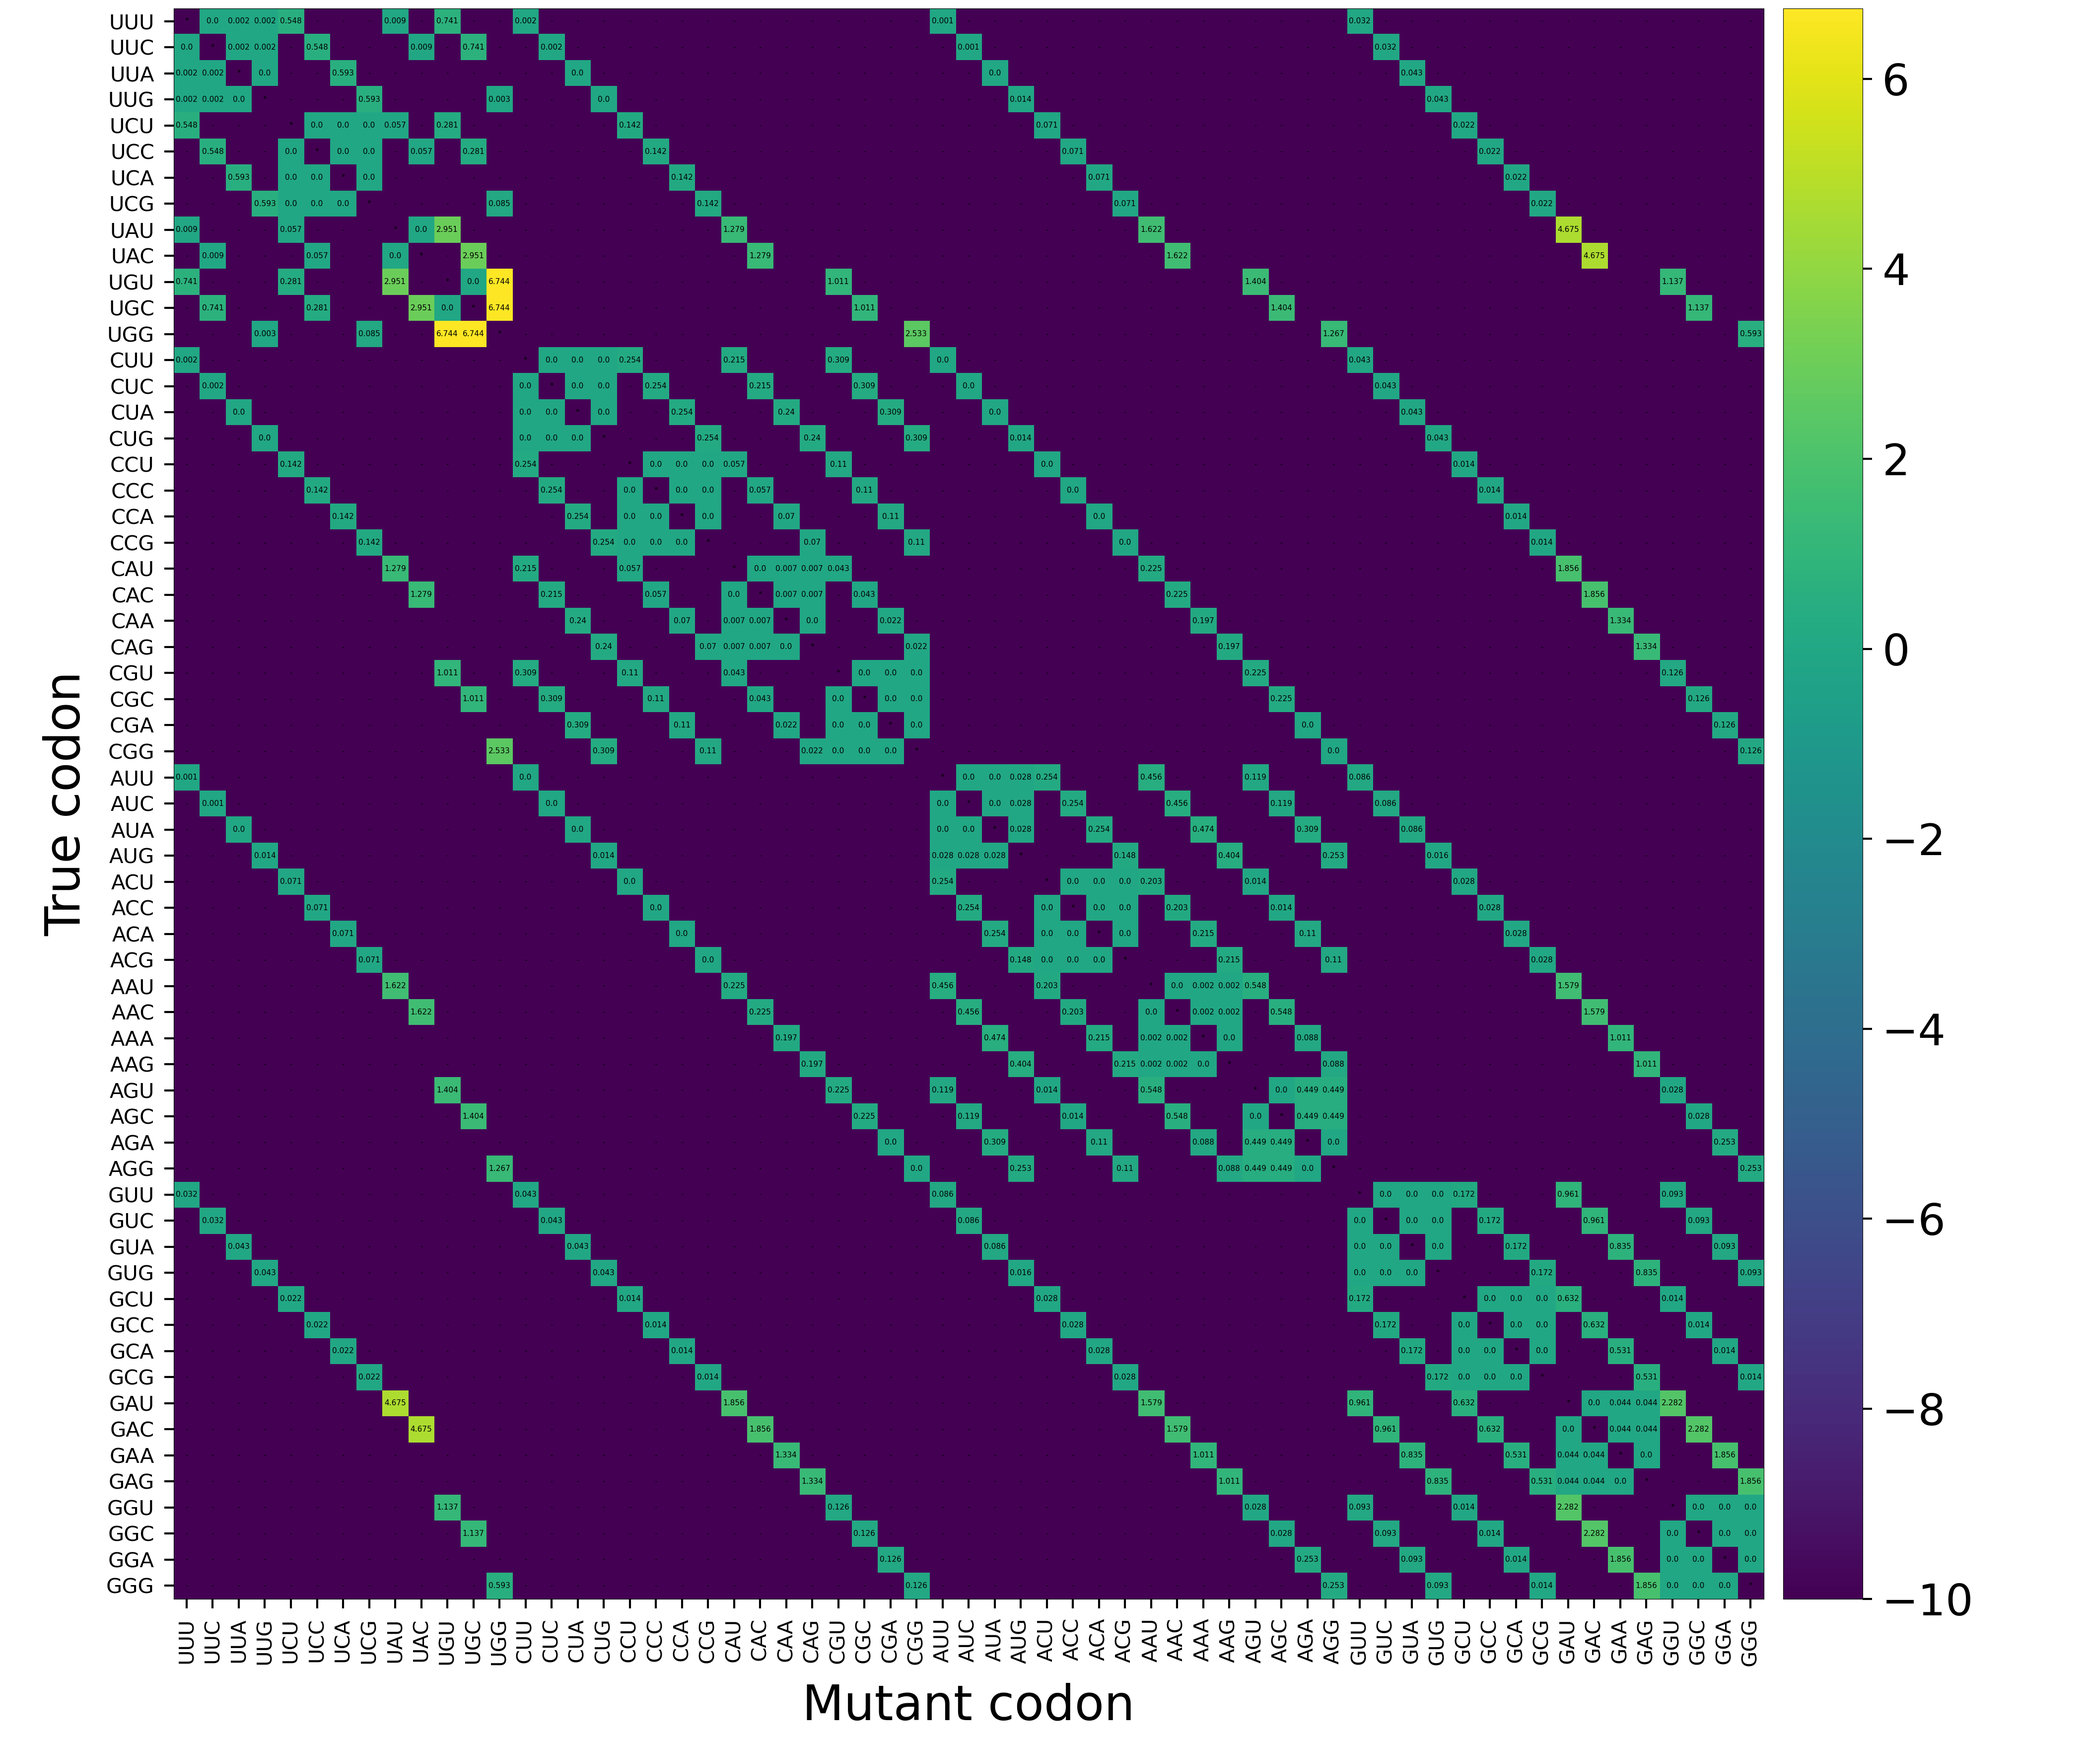
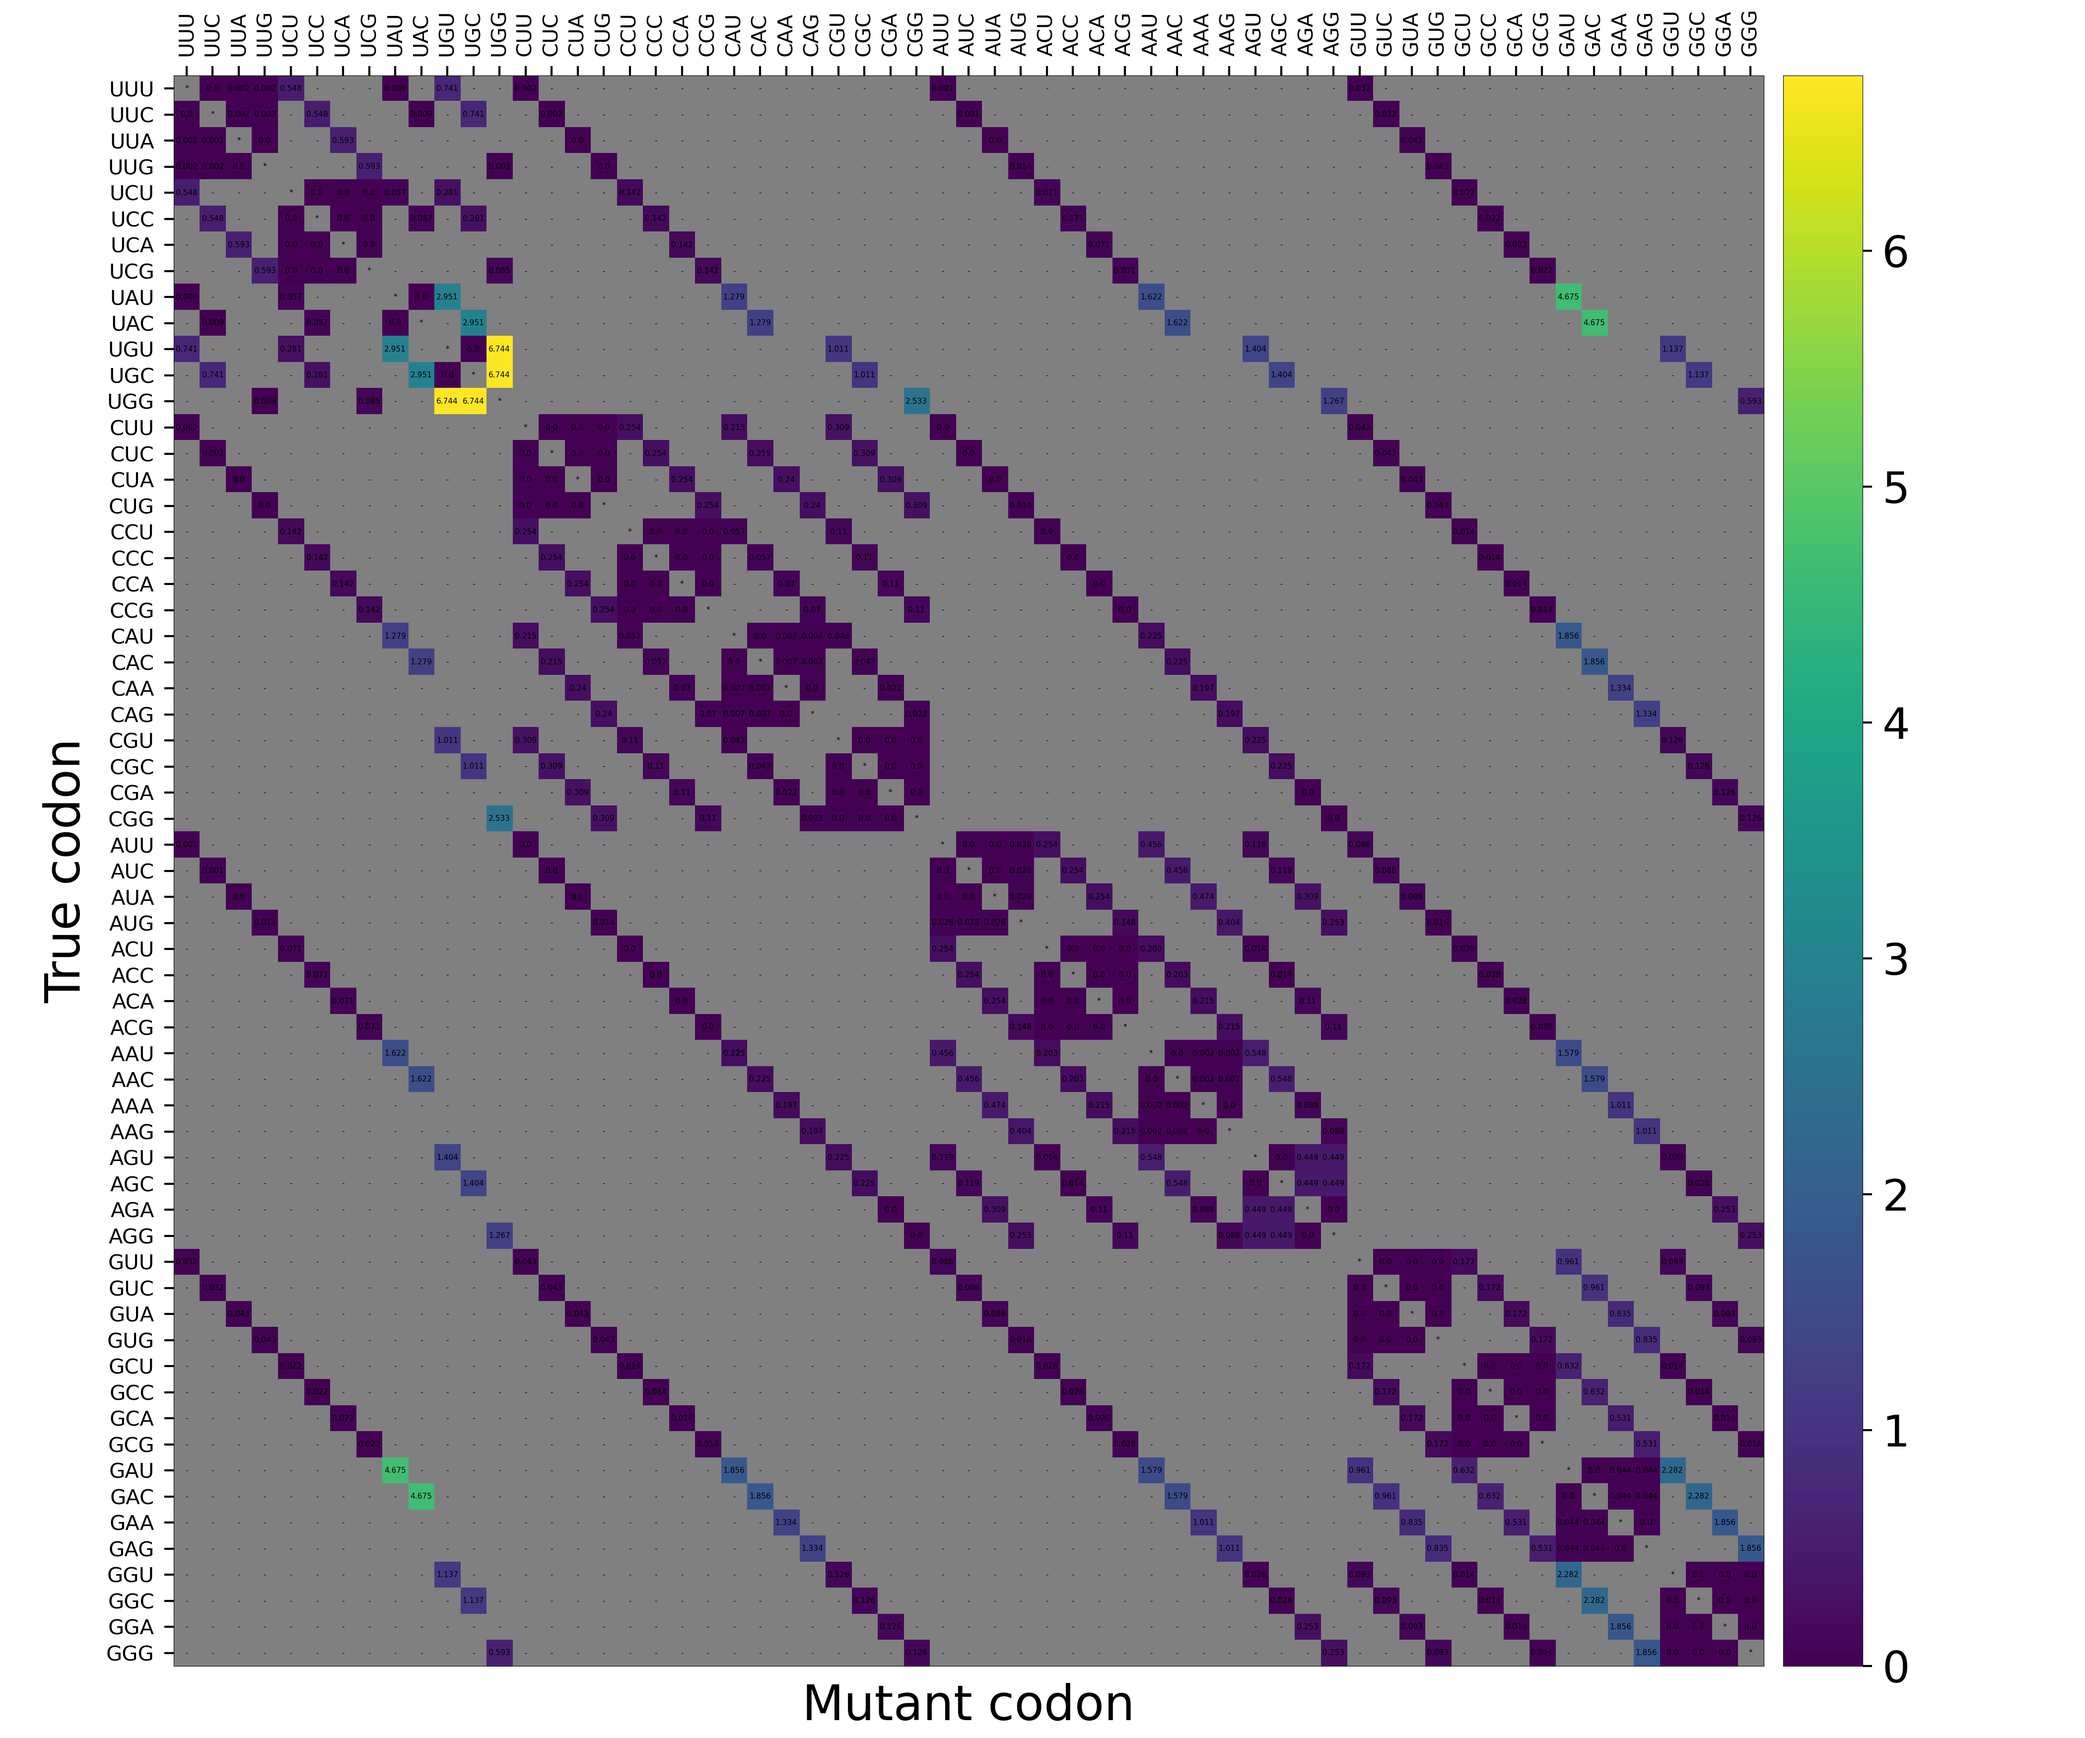
heatmap, grey working and y axis labels shifted to top

diff --git a/cost_function_stuff/cost_function.py b/cost_function_stuff/cost_function.py
@@ -436,12 +436,18 @@ def confusion_matrix(plot_matrix, original_matrix, minimum, maximum, filename):
 
     fig, ax = plt.subplots(figsize=(42, 35))
     plt.rcParams['font.size'] = 11
-    img = ax.imshow(plot_matrix)
+
+    cmap = matplotlib.colormaps.get_cmap('viridis')
+    cmap.set_under(color='grey')
+    img = ax.imshow(plot_matrix, cmap=cmap, vmin=minimum, vmax=maximum)
+
     ax.set_xticks(np.arange(61))
     ax.set_yticks(np.arange(61))
     ax.set_xticklabels(codons_excl_stop, rotation = 90)
     ax.set_yticklabels(codons_excl_stop)
     ax.tick_params(labelsize=30, pad=14, length=14, width=3)
+    ax.tick_params(bottom=False, top=True, left=True, right=False)
+    ax.tick_params(labelbottom=False, labeltop=True, labelleft=True, labelright=False)
     ax.set_xlabel('Mutant codon', fontsize=70, labelpad=24)
     ax.set_ylabel('True codon', fontsize=70, labelpad=24)
 
@@ -456,6 +462,9 @@ def confusion_matrix(plot_matrix, original_matrix, minimum, maximum, filename):
 
     cbar = fig.colorbar(img, ax=ax, pad=0.01)
     cbar.ax.tick_params(labelsize=63, pad=14, length=14, width=3)
+
+    
+
     fig.tight_layout()
     plt.savefig(f'{filename}.png')
     plt.close()
